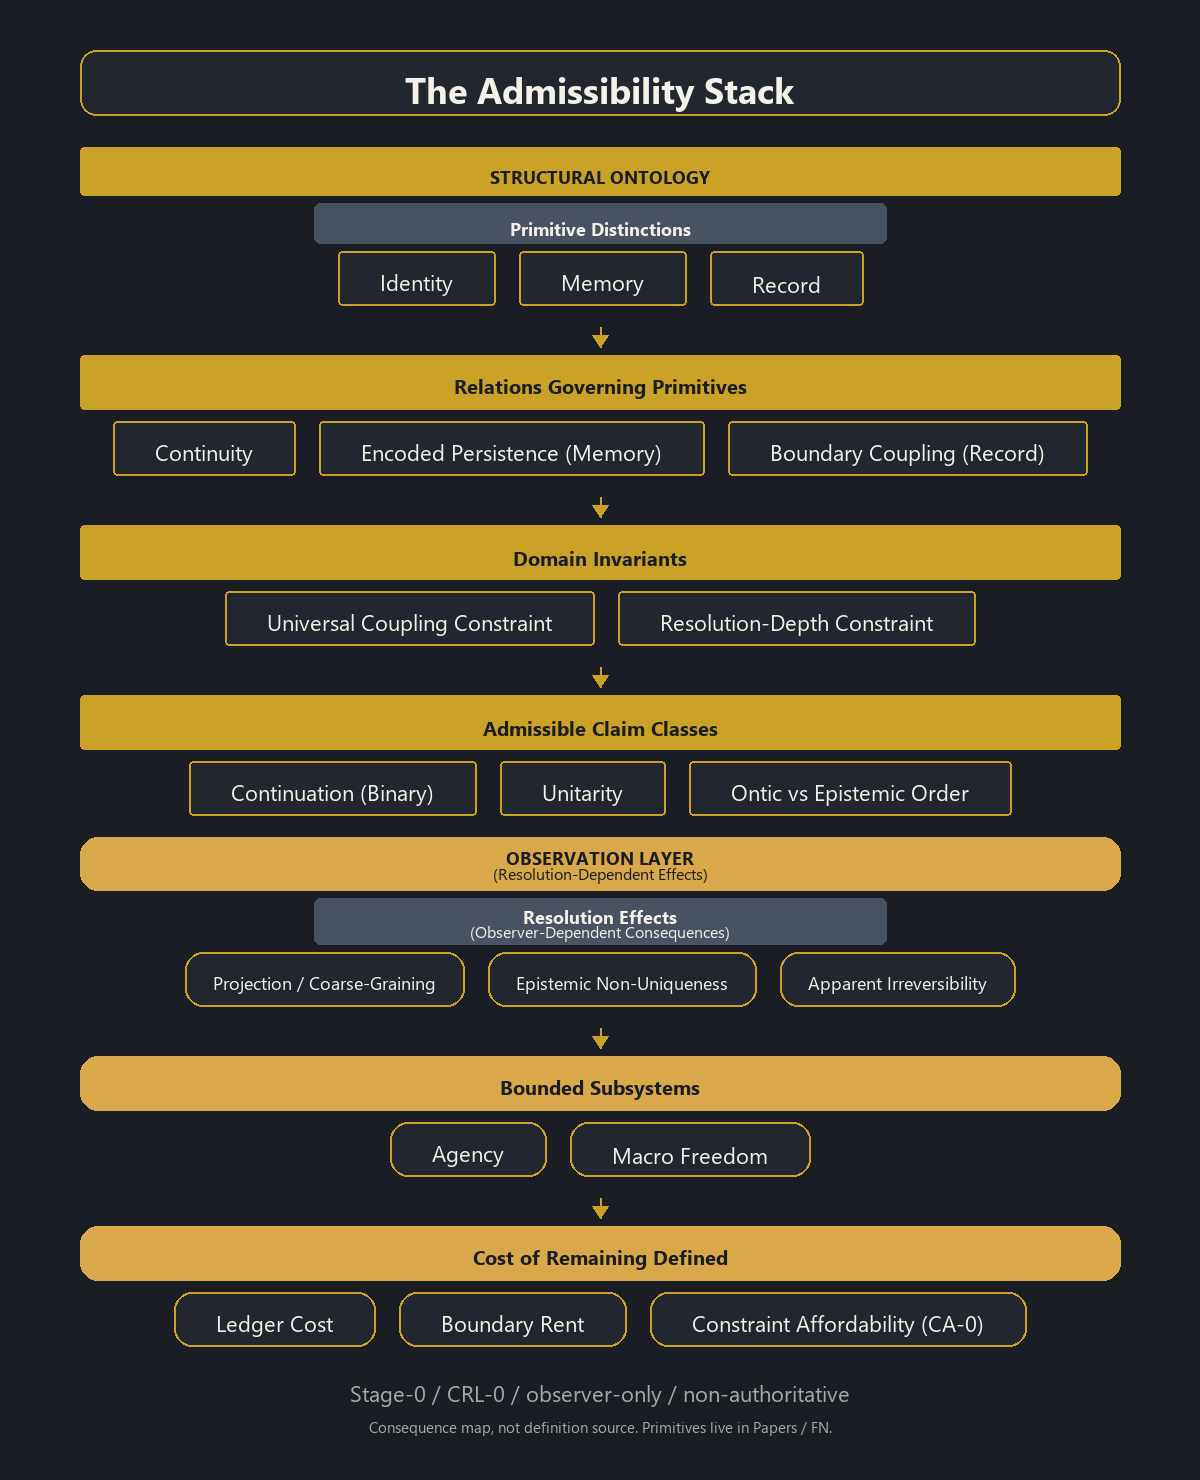
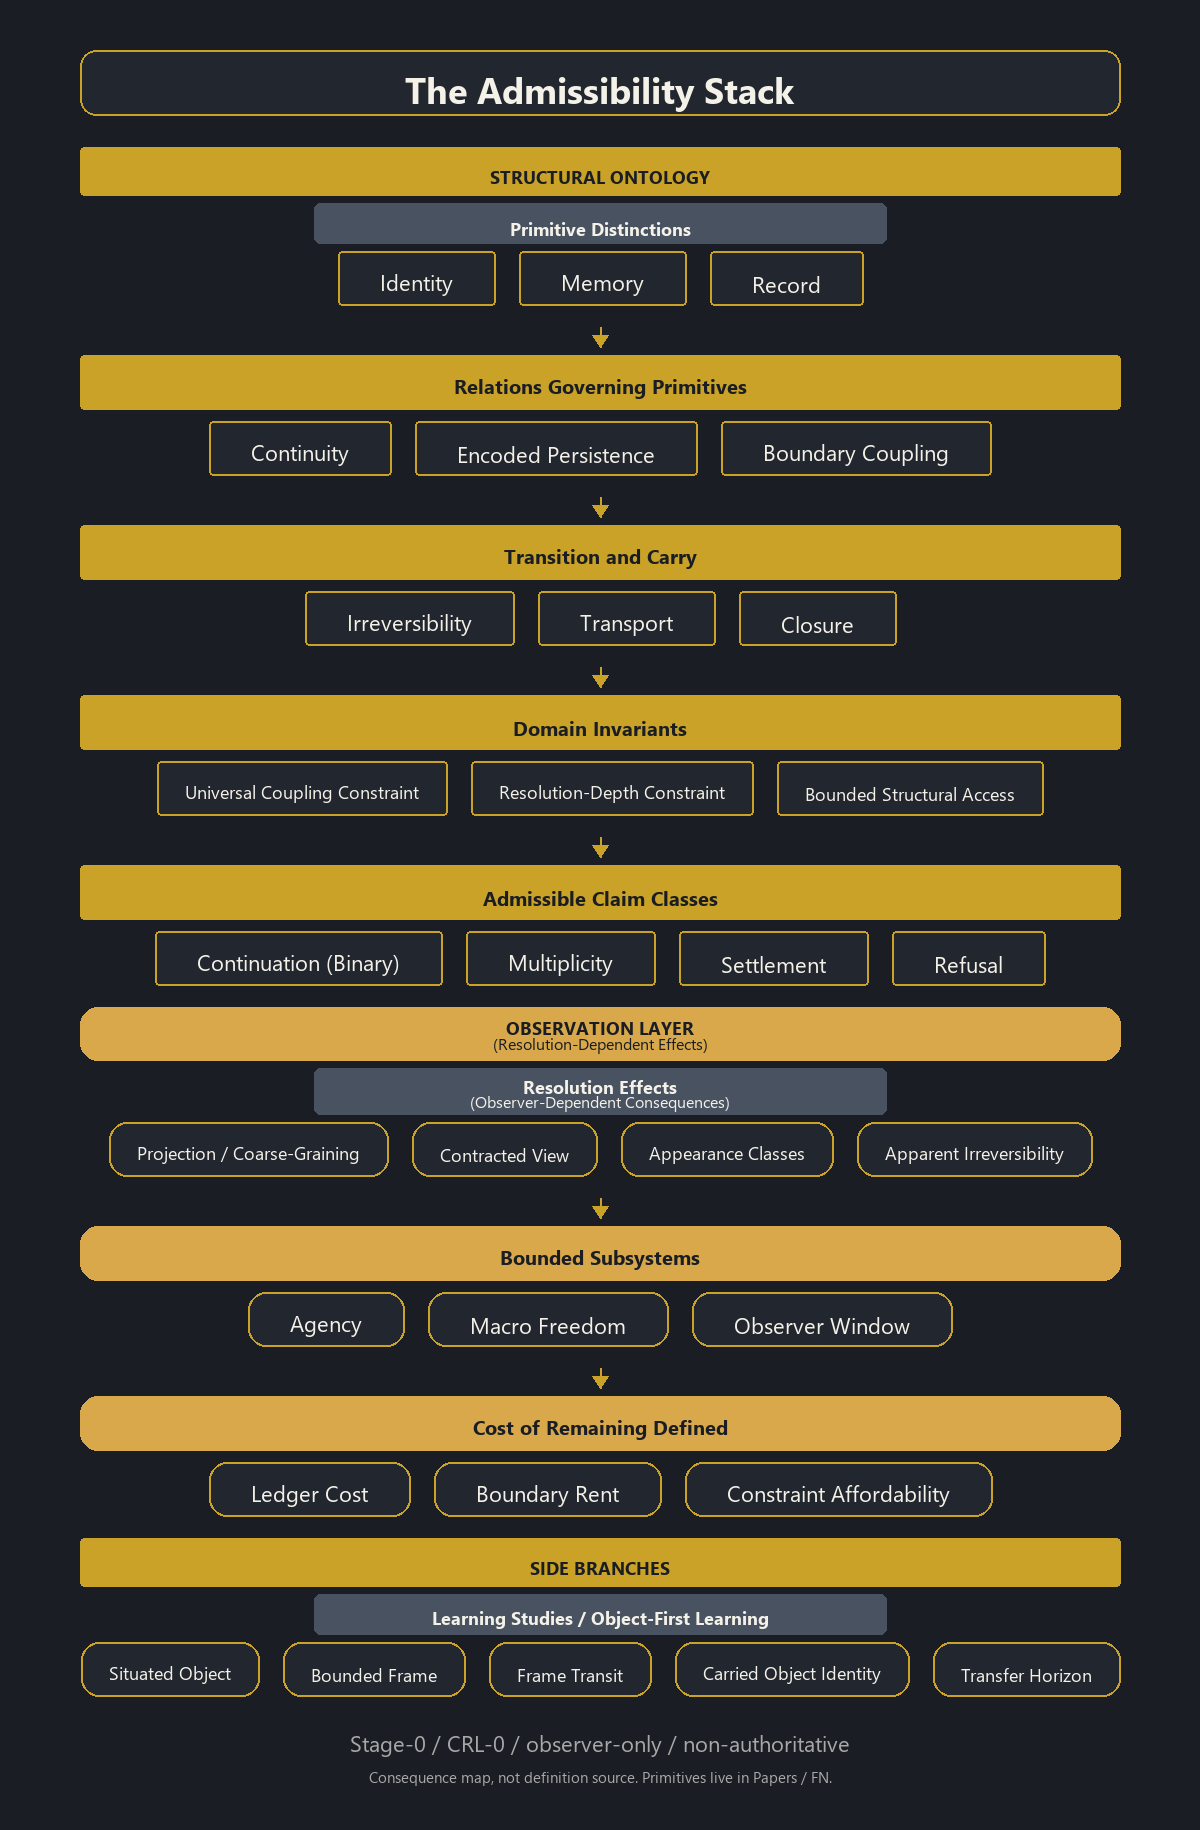
docs(license+stack): add LICENSE, posture blocks, and stack restructure
- LICENSE (new): CC BY-ND 4.0 for text/docs + non-grant block excluding
  methods, algorithms, thresholds, calibration, procedures, recipes
- README, docs/papers.md, docs/program-notes/CG-PN-4.5: posture frontmatter
  and CC BY-ND 4.0 license footers
- gen_admissibility_stack.py + index.html: stack restructure
  - new Transition and Carry layer (Irreversibility, Transport, Closure)
  - Domain Invariants adds Bounded Structural Access
  - Admissible Claim Classes: Continuation (Binary), Multiplicity,
    Settlement, Refusal
  - Resolution Effects: + Contracted View, + Appearance Classes
  - Bounded Subsystems: + Observer Window
  - new SIDE BRANCHES section: Learning Studies / Object-First Learning
- admissibility-stack.png regenerated

Vocabulary ordering and surface placement only. No derivation, no method.

diff --git a/index.html b/index.html
@@ -795,6 +795,19 @@
         <!-- Arrow -->
         <div style="text-align:center;padding:4px 0"><div class="arrow-down" style="display:inline-block;position:static"></div></div>
 
+        <!-- Transition and Carry -->
+        <div style="padding:8px 16px;background:var(--surface-raised);text-align:center">
+          <span class="mono" style="font-size:7px;color:var(--dim);letter-spacing:1.5px">Transition and Carry</span>
+        </div>
+        <div style="display:flex;gap:2px">
+          <div class="entry" style="flex:1;text-align:center;margin:0;padding:10px"><span class="mono" style="font-size:9px;color:var(--cream)">Irreversibility</span></div>
+          <div class="entry" style="flex:1;text-align:center;margin:0;padding:10px"><span class="mono" style="font-size:9px;color:var(--cream)">Transport</span></div>
+          <div class="entry" style="flex:1;text-align:center;margin:0;padding:10px"><span class="mono" style="font-size:9px;color:var(--cream)">Closure</span></div>
+        </div>
+
+        <!-- Arrow -->
+        <div style="text-align:center;padding:4px 0"><div class="arrow-down" style="display:inline-block;position:static"></div></div>
+
         <!-- Domain Invariants -->
         <div style="padding:8px 16px;background:var(--surface-raised);text-align:center">
           <span class="mono" style="font-size:7px;color:var(--dim);letter-spacing:1.5px">Domain Invariants</span>
@@ -802,6 +815,7 @@
         <div style="display:flex;gap:2px">
           <div class="entry" style="flex:1;text-align:center;margin:0;padding:10px"><span class="mono" style="font-size:9px;color:var(--cream)">Universal Coupling Constraint</span></div>
           <div class="entry" style="flex:1;text-align:center;margin:0;padding:10px"><span class="mono" style="font-size:9px;color:var(--cream)">Resolution-Depth Constraint</span></div>
+          <div class="entry" style="flex:1;text-align:center;margin:0;padding:10px"><span class="mono" style="font-size:9px;color:var(--cream)">Bounded Structural Access</span></div>
         </div>
 
         <!-- Arrow -->
@@ -813,8 +827,9 @@
         </div>
         <div style="display:flex;gap:2px">
           <div class="entry" style="flex:1;text-align:center;margin:0;padding:10px"><span class="mono" style="font-size:9px;color:var(--cream)">Continuation (Binary)</span></div>
-          <div class="entry" style="flex:1;text-align:center;margin:0;padding:10px"><span class="mono" style="font-size:9px;color:var(--cream)">Unitarity</span></div>
-          <div class="entry" style="flex:1;text-align:center;margin:0;padding:10px"><span class="mono" style="font-size:9px;color:var(--cream)">Ordic vs Epistemic</span></div>
+          <div class="entry" style="flex:1;text-align:center;margin:0;padding:10px"><span class="mono" style="font-size:9px;color:var(--cream)">Multiplicity</span></div>
+          <div class="entry" style="flex:1;text-align:center;margin:0;padding:10px"><span class="mono" style="font-size:9px;color:var(--cream)">Settlement</span></div>
+          <div class="entry" style="flex:1;text-align:center;margin:0;padding:10px"><span class="mono" style="font-size:9px;color:var(--cream)">Refusal</span></div>
         </div>
 
         <!-- Divider: OBSERVATION LAYER -->
@@ -828,7 +843,8 @@
         </div>
         <div style="display:flex;gap:2px">
           <div class="entry" style="flex:1;text-align:center;margin:0;padding:10px"><span class="mono" style="font-size:8px;color:var(--dim)">Projection / Coarse-Graining</span></div>
-          <div class="entry" style="flex:1;text-align:center;margin:0;padding:10px"><span class="mono" style="font-size:8px;color:var(--dim)">Epistemic Non-Uniqueness</span></div>
+          <div class="entry" style="flex:1;text-align:center;margin:0;padding:10px"><span class="mono" style="font-size:8px;color:var(--dim)">Contracted View</span></div>
+          <div class="entry" style="flex:1;text-align:center;margin:0;padding:10px"><span class="mono" style="font-size:8px;color:var(--dim)">Appearance Classes</span></div>
           <div class="entry" style="flex:1;text-align:center;margin:0;padding:10px"><span class="mono" style="font-size:8px;color:var(--dim)">Apparent Irreversibility</span></div>
         </div>
 
@@ -842,6 +858,7 @@
         <div style="display:flex;gap:2px">
           <div class="entry" style="flex:1;text-align:center;margin:0;padding:10px"><span class="mono" style="font-size:9px;color:var(--dim)">Agency</span></div>
           <div class="entry" style="flex:1;text-align:center;margin:0;padding:10px"><span class="mono" style="font-size:9px;color:var(--dim)">Macro Freedom</span></div>
+          <div class="entry" style="flex:1;text-align:center;margin:0;padding:10px"><span class="mono" style="font-size:9px;color:var(--dim)">Observer Window</span></div>
         </div>
 
         <!-- Arrow -->
@@ -855,6 +872,23 @@
           <div class="entry" style="flex:1;text-align:center;margin:0;padding:10px"><span class="mono" style="font-size:9px;color:var(--dim)">Ledger Cost</span></div>
           <div class="entry" style="flex:1;text-align:center;margin:0;padding:10px"><span class="mono" style="font-size:9px;color:var(--dim)">Boundary Rent</span></div>
           <div class="entry" style="flex:1;text-align:center;margin:0;padding:10px"><span class="mono" style="font-size:9px;color:var(--dim)">Constraint Affordability</span></div>
+        </div>
+
+        <!-- Divider: SIDE BRANCHES -->
+        <div style="margin:16px 0;padding:8px 16px;border:1px solid var(--gold-dim);background:var(--gold-faint);text-align:center">
+          <span class="mono" style="font-size:7px;color:var(--gold);letter-spacing:2px">SIDE BRANCHES</span>
+        </div>
+
+        <!-- Learning Studies / Object-First Learning -->
+        <div style="padding:8px 16px;background:var(--surface-raised);text-align:center">
+          <span class="mono" style="font-size:7px;color:var(--dim);letter-spacing:1.5px">Learning Studies / Object-First Learning</span>
+        </div>
+        <div style="display:flex;gap:2px">
+          <div class="entry" style="flex:1;text-align:center;margin:0;padding:10px"><span class="mono" style="font-size:9px;color:var(--dim)">Situated Object</span></div>
+          <div class="entry" style="flex:1;text-align:center;margin:0;padding:10px"><span class="mono" style="font-size:9px;color:var(--dim)">Bounded Frame</span></div>
+          <div class="entry" style="flex:1;text-align:center;margin:0;padding:10px"><span class="mono" style="font-size:9px;color:var(--dim)">Frame Transit</span></div>
+          <div class="entry" style="flex:1;text-align:center;margin:0;padding:10px"><span class="mono" style="font-size:9px;color:var(--dim)">Carried Object Identity</span></div>
+          <div class="entry" style="flex:1;text-align:center;margin:0;padding:10px"><span class="mono" style="font-size:9px;color:var(--dim)">Transfer Horizon</span></div>
         </div>
 
       </div>

diff --git a/docs/images/gen_admissibility_stack.py b/docs/images/gen_admissibility_stack.py
@@ -49,22 +49,28 @@ elements = [
     ("pills", ["Identity", "Memory", "Record"]),
     ("arrow",),
     ("header", "Relations Governing Primitives"),
-    ("pills", ["Continuity", "Encoded Persistence (Memory)", "Boundary Coupling (Record)"]),
+    ("pills", ["Continuity", "Encoded Persistence", "Boundary Coupling"]),
+    ("arrow",),
+    ("header", "Transition and Carry"),
+    ("pills", ["Irreversibility", "Transport", "Closure"]),
     ("arrow",),
     ("header", "Domain Invariants"),
-    ("pills", ["Universal Coupling Constraint", "Resolution-Depth Constraint"]),
+    ("pills", ["Universal Coupling Constraint", "Resolution-Depth Constraint", "Bounded Structural Access"]),
     ("arrow",),
     ("header", "Admissible Claim Classes"),
-    ("pills", ["Continuation (Binary)", "Unitarity", "Ontic vs Epistemic Order"]),
+    ("pills", ["Continuation (Binary)", "Multiplicity", "Settlement", "Refusal"]),
     ("section2", "OBSERVATION LAYER", "(Resolution-Dependent Effects)"),
     ("subheader", "Resolution Effects", "(Observer-Dependent Consequences)"),
-    ("pills", ["Projection / Coarse-Graining", "Epistemic Non-Uniqueness", "Apparent Irreversibility"]),
+    ("pills", ["Projection / Coarse-Graining", "Contracted View", "Appearance Classes", "Apparent Irreversibility"]),
     ("arrow",),
     ("header", "Bounded Subsystems"),
-    ("pills", ["Agency", "Macro Freedom"]),
+    ("pills", ["Agency", "Macro Freedom", "Observer Window"]),
     ("arrow",),
     ("header", "Cost of Remaining Defined"),
-    ("pills", ["Ledger Cost", "Boundary Rent", "Constraint Affordability (CA-0)"]),
+    ("pills", ["Ledger Cost", "Boundary Rent", "Constraint Affordability"]),
+    ("section", "SIDE BRANCHES"),
+    ("subheader", "Learning Studies / Object-First Learning"),
+    ("pills", ["Situated Object", "Bounded Frame", "Frame Transit", "Carried Object Identity", "Transfer Horizon"]),
 ]
 
 # --- Font setup ---

diff --git a/README.md b/README.md
@@ -1,3 +1,11 @@
+---
+Status: Public
+Surface: CC (Declarative)
+Claim Ceiling: canon orientation, reading order, and surface index only
+Authority: Observer-only | Non-authoritative | No directives
+Exclusions: methods, algorithms, thresholds, calibration, procedures, recipes
+---
+
 # Constraint Spine
 
 **→ [spine.constraintphysics.org](https://spine.constraintphysics.org/)** — interactive site (papers, reading order, dependencies, stack, surfaces, notes, posture)
@@ -52,3 +60,4 @@ For docs orientation and navigation across repositories, see the
 
 Observer-only. Non-authoritative. No directives.
 See license posture pages for details.
+Text and documentation: [CC BY-ND 4.0](LICENSE) (verbatim share permitted, derivatives not; with methods/algorithms/thresholds/calibration/procedures/recipes non-grant).

diff --git a/docs/papers.md b/docs/papers.md
@@ -97,3 +97,9 @@ Do not treat summaries as instructions.
 ## SRL (Machine Index)
 
 Atomic structural projections of paper concepts (definitions, invariants, refusals) are available in the [Surface Readability Layer](srl/README.md). SRL is representation-only and does not alter paper content.
+
+---
+
+## License
+
+Text and documentation: [CC BY-ND 4.0](../LICENSE) -- verbatim share permitted, derivative redistribution not. The non-grant in [LICENSE](../LICENSE) excludes methods, algorithms, thresholds, calibration, procedures, and recipes from any permissive grant. Each paper's canonical license is set on its Zenodo record.

diff --git a/docs/program-notes/CG-PN-4.5_BOUNDED_TRANSFER_DISTORTION_DRAFT.md b/docs/program-notes/CG-PN-4.5_BOUNDED_TRANSFER_DISTORTION_DRAFT.md
@@ -291,3 +291,9 @@ Program Notes use **CG-PN** identifiers. Dotted sub-numbers (e.g., CG-PN-4.5) de
 | Version | Changes |
 |---------|---------|
 | v0.1 (Draft) | Initial draft. Defines bounded transfer distortion as §4.5 under Carry. Sub-numbered into CG-PN-4's canon node as CG-PN-4.5 to signal tight extension rather than new top-level peer. Names five axes (boundary direction, scope error, frame integrity, outcome severity, whole-from-few visibility) and five root subtypes (under-carried, mis-carried, over-carried, frozen, maladaptive). Treats over-applied transfer as an expression mode rather than a root subtype. Inherits refusal against whole-claim inflation from CG-PN-4. |
+
+---
+
+## License
+
+Text and documentation: [CC BY-ND 4.0](../../LICENSE) -- verbatim share permitted, derivative redistribution not. The non-grant in [LICENSE](../../LICENSE) excludes methods, algorithms, thresholds, calibration, procedures, and recipes from any permissive grant. The canonical citable record for this program note's parent paper is on Zenodo and carries its own license metadata.